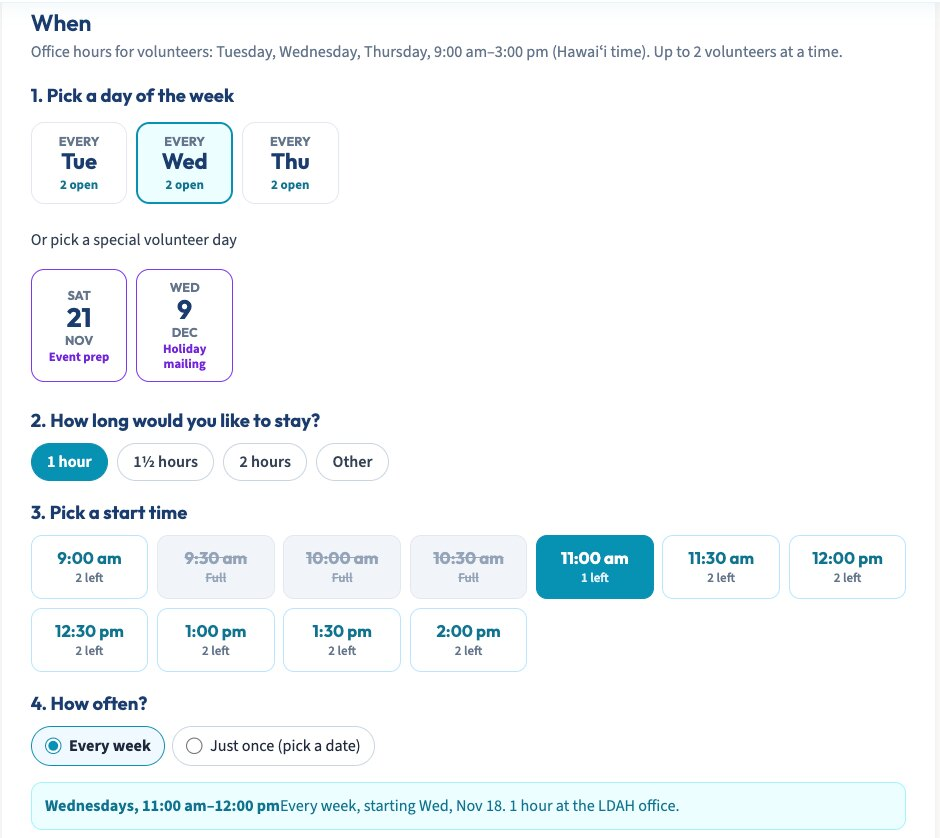
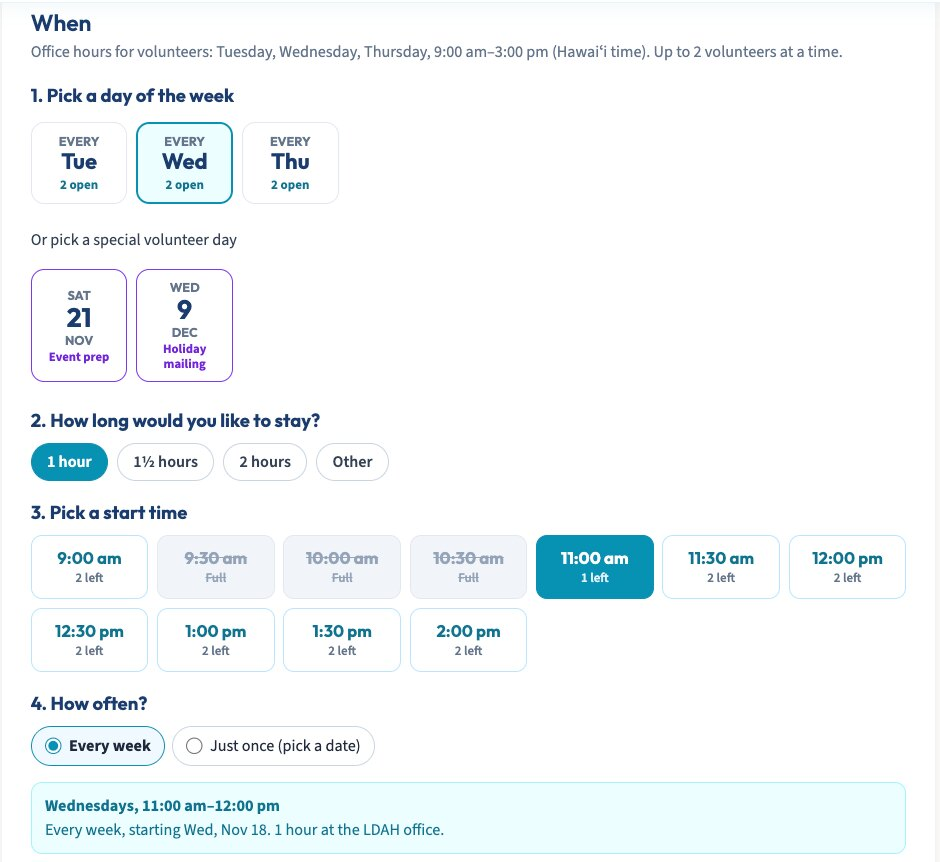
Training deck In-Office Help: recaptured the Pick a day and a time screen (summary on two lines)
Claude-Session: https://claude.ai/code/session_01QmCmEdy5yZffakzmyP6GfG

diff --git a/training/in-office-help.html b/training/in-office-help.html
@@ -86,14 +86,14 @@ const PTS=(items,top=140)=>`<div class="abs" style="left:790px;top:${top}px;widt
 /* ---- the pictures: [file, natural width, natural height] ---- */
 const IMS={
  modal:['01-modal',1092,910], reqform:['02-request-form',567,1061], reqdone:['03-request-done',850,653],
- otop:['04-office-top',1244,819], owhen:['05-office-when',940,838], oabout:['06-office-about',940,671], odone:['07-office-done',940,446],
+ otop:['04-office-top',1244,819], owhen:['05-office-when',940,862], oabout:['06-office-about',940,671], odone:['07-office-done',940,446],
  menu:['08-dan-menu',379,606], tabs:['09-dan-tabs',1568,179], weekly:['10-dan-weekly',1568,602], special:['11-dan-special',1545,262],
  reqs:['12-dan-requests',1568,212], calw:['13-dan-calendar-week',1568,298], cald:['14-dan-calendar-day',1568,246],
  signups:['15-dan-signups',1480,628], fromreq:['16-dan-special-fromreq',1568,246]};
 /* A framed picture. view() pans and zooms it to a region; R() turns a region of the
    picture into stage coordinates for spot() and move(). Never zoomed past KMAX, so it stays sharp. */
 const KMAX=.85;
-const FR=(key,o={})=>{const [f,w,h]=IMS[key];return `<div class="oh-fr${o.web?' web':''} k-fr-${key}" style="left:${o.l||58}px;top:${o.t||118}px;width:${o.w||712}px;height:${o.h||572}px;${o.st||''}" data-w="${w}" data-h="${h}"><img src="img/office-help/${f}.jpg" width="${w}" height="${h}" alt=""></div>`};
+const FR=(key,o={})=>{const [f,w,h]=IMS[key];return `<div class="oh-fr${o.web?' web':''} k-fr-${key}" style="left:${o.l||58}px;top:${o.t||118}px;width:${o.w||712}px;height:${o.h||572}px;${o.st||''}" data-w="${w}" data-h="${h}"><img src="img/office-help/${f}.jpg?v=2" width="${w}" height="${h}" alt=""></div>`};
 const TAG=(cls,txt,l=790,t=98)=>`<div class="oh-tag ${cls}" style="left:${l}px;top:${t}px">${txt}</div>`;
 function view(key,r,ms=800){const fr=q('.k-fr-'+key);if(!fr)return Promise.resolve();const img=fr.firstChild,W=fr.clientWidth,H=fr.clientHeight;
  const [x,y,w,h]=r||[0,0,+fr.dataset.w,+fr.dataset.h];const k=Math.min(W/w,H/h,KMAX);const tx=-x*k+(W-w*k)/2,ty=-y*k+(H-h*k)/2;
@@ -228,7 +228,7 @@ const SC=[
  {say:'Then how long they would like to stay. One hour, an hour and a half, two hours, or Other.',li:1,act:async()=>{sp('owhen',[31,442,360,40])}},
  {say:'Then a start time, every 30 minutes. Each one shows how many spots are left. When a time reaches your Volunteers at once number, it is crossed out and says Full.',li:2,act:async()=>{sp('owhen',[31,535,875,136])}},
  {say:'Then how often. Every week, or just once on a date they pick. A special day skips this question.',li:3,act:async()=>{sp('owhen',[31,725,345,42])}},
- {say:'A summary shows what they picked. A weekly sign-up starts the week after they sign up.',li:4,act:async()=>{sp('owhen',[31,782,875,48])}}]},
+ {say:'A summary shows what they picked. A weekly sign-up starts the week after they sign up.',li:4,act:async()=>{sp('owhen',[31,782,875,72])}}]},
 
 // ================= 10. ABOUT YOU + DONE =================
 {html:()=>TAG('web','ldahawaii.org')+HEAD('What volunteers see','About you, and they’re done')+FR('oabout',{web:1})+FR('odone',{web:1,st:'opacity:0;animation:none;z-index:6'})+PTS([
